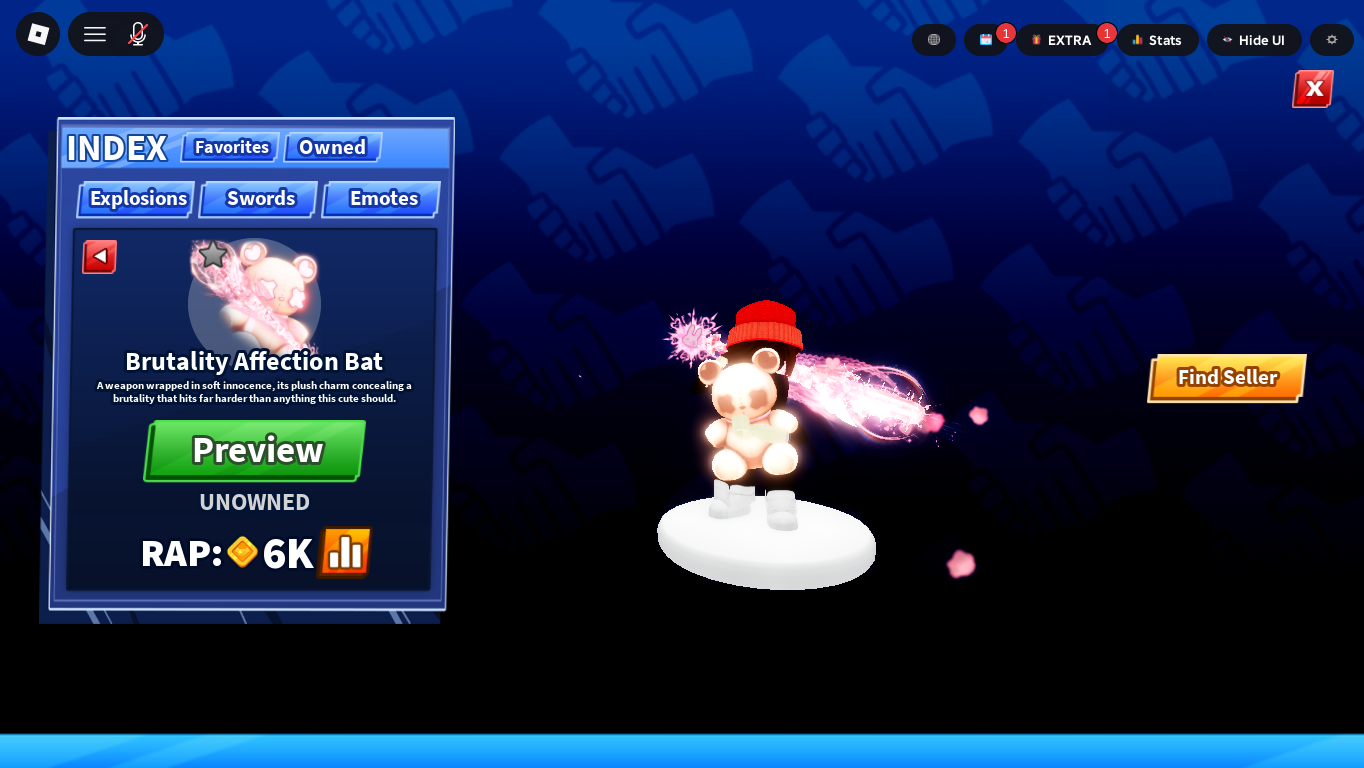
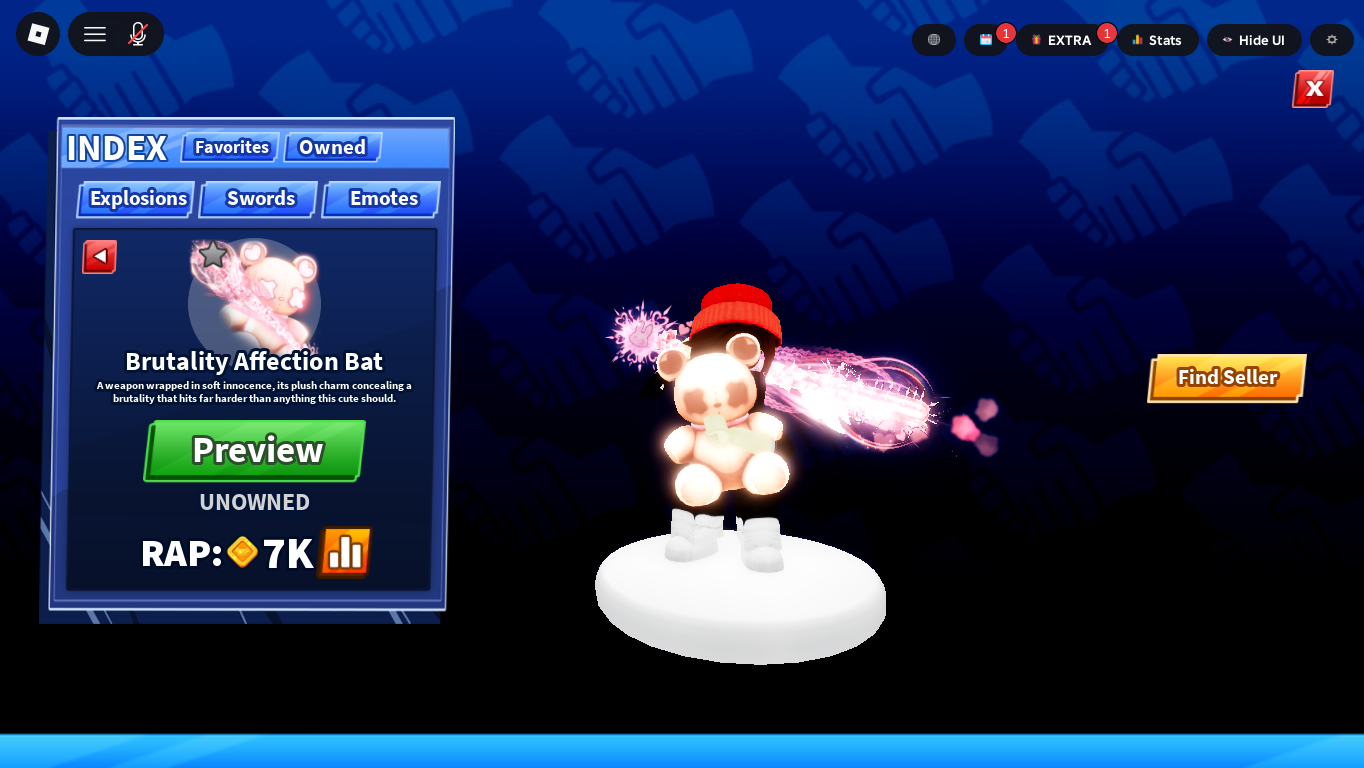
Update Index And Pic

Changed region(s): [[0.4311, 0.3438, 0.739, 0.875], [0.6774, 0.7188, 0.739, 0.75], [0.1848, 0.6875, 0.2155, 0.75]]

diff --git a/index.html b/index.html
@@ -1929,7 +1929,7 @@ const data={
 "Sword Cewe":[
 ["Dual Flutter Blade","43k"],["Dual Heart Blade","50k"],["Dual Luv4pain Blade","45k"],["Dual Loveclaw Blade","48k"],["Dual Love Blade","45k"],["Dual Ribbon Blade","45k"],["Dual Rose Blade","40k"],["Dual Soulbloom Blade","35k"],["Dual Spring Saber Blade","35k"],["Dual Strawberry Cake Blade","40k"],["Dual Butterfly Blade","35k"],["Butterfly Bow","65k"],["Dual Bubble Blade + Aksesoris","65k"],["Dual Gothic Bunny","60k"],["Dual Sugarcoated Saber","70k"],["Harmonic Fan","83k"],["Nyxpetal Fan","93k"],["Peachborne Fan","83k"],["Dual Bubble Blaster","117k"],["Sakura Parasol","101k"]],
 "Sword Entry Level":[
-["Witch's Curse","215k"],["Poisoned Bunny","315k"],["Fox Katana","385k"],["New Year Set ( Finisher )","86k"],["Dual Love Sickle ( Finisher )","86k"],["Witch Set ( Finisher)","75k"],["Neo Katana","120k"],["Chained Scorpion (Finisher)","86k"],["Samurai Set","94k"],["Pillow","185k"],["Pink Oni Katana","205k"],["Red Oni Katana","210k"],["Purple Oni Katana","210k"],["Blue Oni Katana","215k"],["Redmoon Katana","215k"],["Riftlare Katana","215k"],["Black Oni Katana","222k"],["Hollow Oath Katana","225k"],["Floppy Chiken","225k"],["Star Wand","225k"],["Higanbana Katana","255k"],["Pulse Heart","285k"],["Lily Katana","300k"],["Gyaru Katana","350k"],["Dual Yin Yang","334k"],["Hitman","375k"],["Brutality Affection Bat","420k"],["Pink Ninja Katana","478k"],["Blosoom Katana","500k"],["Kitty Katana","910k"],["Pearl Angel Katana","240k"],["Astral Seraph","240k"],["North Blade","115k"],["Crystal Great Blade","135k"],["Cat Paw","800k"],["Kitty Launcher","1,205k"]],
+["Witch's Curse","245k"],["Poisoned Bunny","315k"],["Fox Katana","436k"],["New Year Set ( Finisher )","86k"],["Dual Love Sickle ( Finisher )","86k"],["Witch Set ( Finisher)","75k"],["Neo Katana","120k"],["Chained Scorpion (Finisher)","86k"],["Samurai Set","94k"],["Pillow","200k"],["Pink Oni Katana","235k"],["Red Oni Katana","235k"],["Purple Oni Katana","235k"],["Blue Oni Katana","420k"],["Redmoon Katana","215k"],["Riftlare Katana","250k"],["Black Oni Katana","222k"],["Hollow Oath Katana","225k"],["Floppy Chiken","225k"],["Star Wand","225k"],["Higanbana Katana","250k"],["Pulse Heart","330k"],["Lily Katana","340k"],["Gyaru Katana","380k"],["Dual Yin Yang","334k"],["Hitman","375k"],["Brutality Affection Bat","530k"],["Pink Ninja Katana","478k"],["Blosoom Katana","500k"],["Kitty Katana","910k"],["Pearl Angel Katana","275k"],["Astral Seraph","240k"],["North Blade","115k"],["Crystal Great Blade","135k"],["Cat Paw","800k"],["Kitty Launcher","1,205k"]],
 "Emote":[
 ["Lush","7k"],["Walk This Earth","7k"],["Love Struck Sway","10k"],["Heart Clap","10k"],["Jiggy","10k"],["Floating Seat","12k"],["Duo Dansen","12k"],["Shake","12k"],["Freestyle Dance","12k"],["Air Punch","12k"],["Pumpin","12k"],["Headless Dribble","12k"],["Pointing The Finger","12k"],["Haunted Bow","12k"],["I'm Sorry","12k"],["Bunny Conga","12k"],["Really Shy","12k"],["Tantrum","12k"],["Real Man","14k"],["Dansen","16k"],["Assumptions","18k"],["Scaredy Cat","18k"],["Office Spin","19k"],["Phantom Chase","20k"],["Floating Heart Aura","28k"],["Blushing Gesture","29k"],["Snowfall Dance","32k"],["I'm Tired","32k"],["Parrot Dance","36k"],["Wait","40k"],["Glitched Dance","48k"],["Look At Me","90k"],["Popular","94k"],["Bring it Around","127k"],["Dancinha","232k"],["Proposal","270k"],["Queen Throne","317k"],["Montagem Miaw","408k"],["Legs Kickin","527k"],["Rose Gift","632k"],["Hug","1037k"]],
 "Explosions":[
@@ -2134,8 +2134,8 @@ render();
   if(!tx) return;
 
   let count=Number(localStorage.getItem("chuwieTransactions"));
-  if(!Number.isFinite(count) || count < 10001){
-    count=10247;
+  if(!Number.isFinite(count) || count < 11000){
+    count=11000;
     localStorage.setItem("chuwieTransactions",String(count));
   }
 
